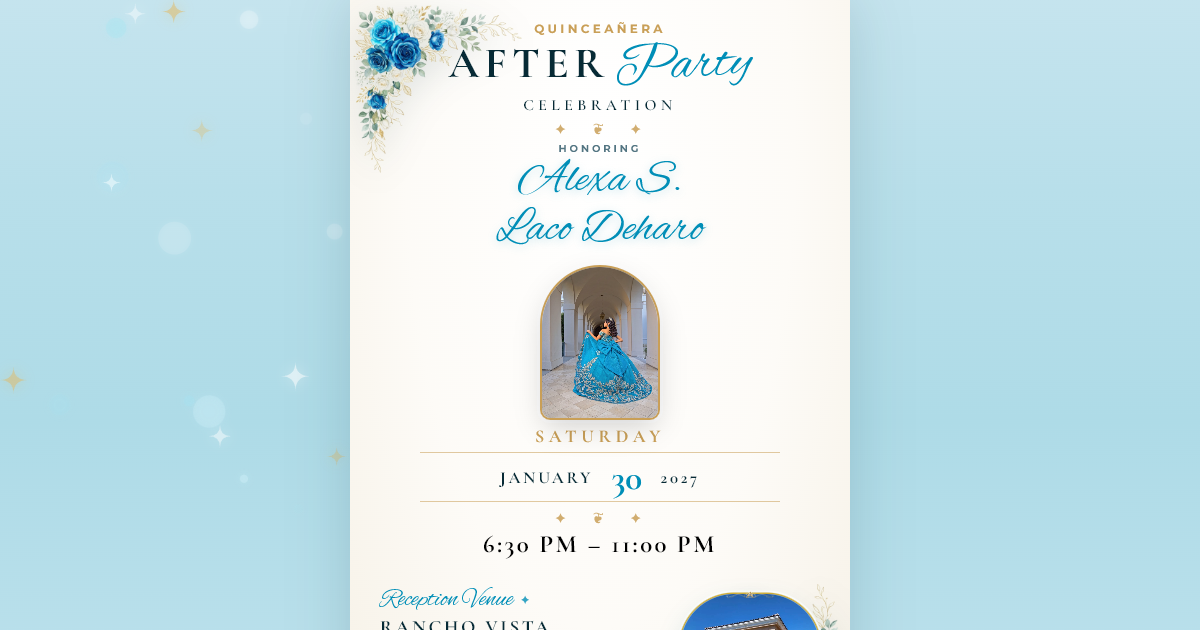
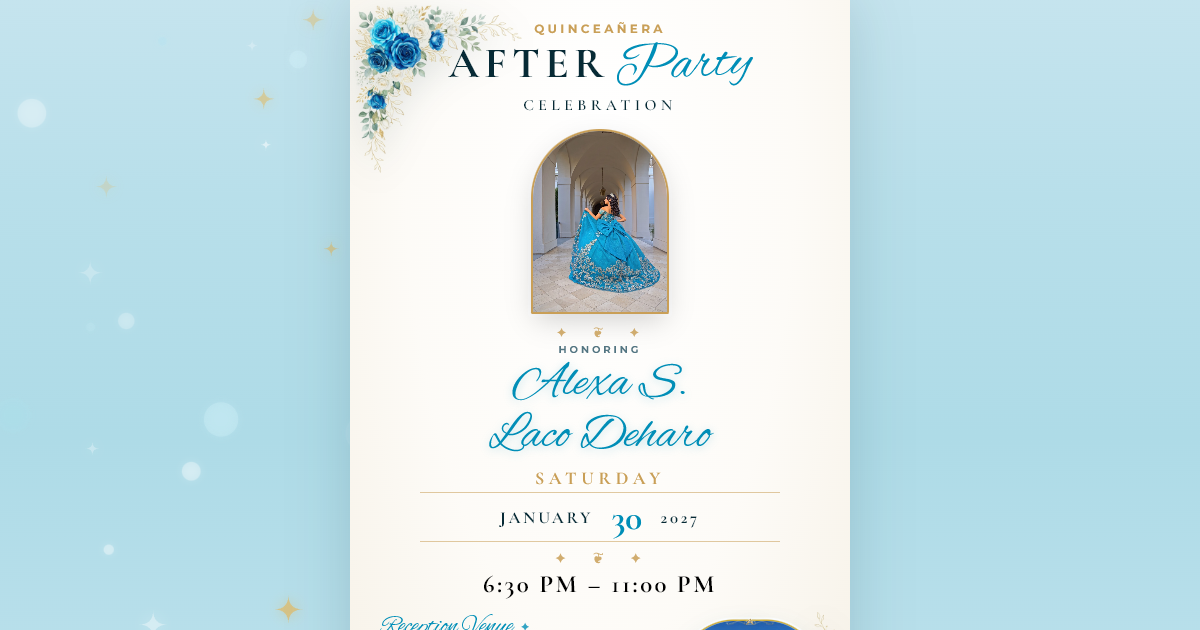
Move celebrant name below portrait and make portrait arch significantly larger and dynamically scaled on alexadeharoafter

diff --git a/alexadeharoafter/style.css b/alexadeharoafter/style.css
@@ -220,50 +220,33 @@ body {
   margin: 0.35rem 0 0.15rem;
 }
 
-.card-honoring {
-  font-family: var(--font-sans);
-  font-size: 0.62rem;
-  font-weight: 700;
-  letter-spacing: 0.3em;
-  text-transform: uppercase;
-  color: var(--text-muted);
-  margin-bottom: 0.2rem;
-}
-
-.celebrant-name {
-  font-family: var(--font-script);
-  font-size: clamp(2.2rem, 7vw, 2.9rem);
-  font-weight: 400;
-  line-height: 1.05;
-  color: var(--text-script);
-  text-shadow: 0 2px 10px rgba(0, 142, 183, 0.25);
-  margin-bottom: clamp(0.2rem, 0.8vh, 0.5rem);
-}
-
-/* ── Celebrant Portrait (Archway Tile Floor Image) ── */
+/* ── Celebrant Portrait Arch (Archway Tile Floor Image) ── */
 .portrait-section {
   width: 100%;
   display: flex;
   justify-content: center;
-  margin-bottom: clamp(0.2rem, 0.8vh, 0.5rem);
+  align-items: center;
+  margin: clamp(0.2rem, 0.8vh, 0.6rem) 0;
 }
 
 .portrait-arch-frame {
-  width: clamp(120px, 17vh, 155px);
-  height: clamp(155px, 23vh, 200px);
-  border-radius: 80px 80px 14px 14px;
+  height: clamp(185px, 27vh, 290px);
+  aspect-ratio: 1 / 1.34;
+  width: auto;
+  border-radius: 999px 999px 18px 18px;
   overflow: hidden;
   position: relative;
   border: 2px solid var(--gold-primary);
   box-shadow: 0 10px 28px -4px rgba(0, 0, 0, 0.18), 0 0 0 3px rgba(255, 255, 255, 0.95);
   background: #fdfbf7;
+  display: flex;
 }
 
 .portrait-img {
   width: 100%;
   height: 100%;
   object-fit: cover;
-  object-position: center 38%;
+  object-position: center 32%;
   display: block;
   transition: transform 0.6s ease;
 }
@@ -272,11 +255,46 @@ body {
   transform: scale(1.04);
 }
 
+/* ── Honoring / Celebrant Name Section (Below Portrait) ── */
+.name-section {
+  width: 100%;
+  text-align: center;
+  margin: clamp(0.15rem, 0.6vh, 0.4rem) 0 clamp(0.2rem, 0.8vh, 0.5rem);
+}
+
+.name-fleuron {
+  margin: 0 0 clamp(0.15rem, 0.5vh, 0.3rem);
+  font-size: 0.82rem;
+  letter-spacing: 0.3em;
+  color: var(--gold-primary);
+  opacity: 0.85;
+}
+
+.card-honoring {
+  font-family: var(--font-sans);
+  font-size: 0.62rem;
+  font-weight: 700;
+  letter-spacing: 0.3em;
+  text-transform: uppercase;
+  color: var(--text-muted);
+  margin-bottom: 0.15rem;
+}
+
+.celebrant-name {
+  font-family: var(--font-script);
+  font-size: clamp(2.3rem, 7.5vw, 3.1rem);
+  font-weight: 400;
+  line-height: 1.05;
+  color: var(--text-script);
+  text-shadow: 0 2px 10px rgba(0, 142, 183, 0.25);
+  margin: 0;
+}
+
 /* ── Date Section ── */
 .details-section {
   width: 100%;
   max-width: 360px;
-  margin-bottom: 1.1rem;
+  margin-bottom: clamp(0.2rem, 0.8vh, 0.5rem);
 }
 
 .event-day-name {
@@ -286,7 +304,7 @@ body {
   letter-spacing: 0.26em;
   text-transform: uppercase;
   color: var(--gold-primary);
-  margin-bottom: 0.35rem;
+  margin-bottom: 0.2rem;
 }
 
 .date-badge-row {

diff --git a/alexadeharoafter/index.html b/alexadeharoafter/index.html
@@ -77,9 +77,6 @@
             <span class="title-script">Party</span>
           </h1>
           <p class="card-subtitle">CELEBRATION</p>
-          <div class="fleuron-divider" aria-hidden="true">✦ &nbsp; ❦ &nbsp; ✦</div>
-          <p class="card-honoring">HONORING</p>
-          <h2 class="celebrant-name">Alexa S.<br />Laco Deharo</h2>
         </header>
 
         <!-- Celebrant Portrait Arch (Archway Tile Floor Image) -->
@@ -87,6 +84,13 @@
           <div class="portrait-arch-frame">
             <img src="photos/celebrant.jpg?v=6" alt="Alexa S. Laco Deharo in teal gown" class="portrait-img" />
           </div>
+        </section>
+
+        <!-- Honoring / Celebrant Name Section (Moved Under Portrait) -->
+        <section class="name-section" aria-label="Honoring Alexa S. Laco Deharo">
+          <div class="fleuron-divider name-fleuron" aria-hidden="true">✦ &nbsp; ❦ &nbsp; ✦</div>
+          <p class="card-honoring">HONORING</p>
+          <h2 class="celebrant-name">Alexa S.<br />Laco Deharo</h2>
         </section>
 
         <!-- Event Details: Date & Time -->
